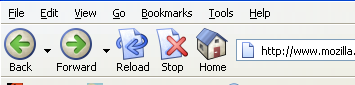
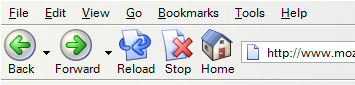
New theme update from Arvid, hoo dog.

diff --git a/toolkit/skin/win/printing.css b/toolkit/skin/win/printing.css
@@ -1,0 +1,108 @@
+/* ***** BEGIN LICENSE BLOCK *****
+ * Version: MPL 1.1/GPL 2.0/LGPL 2.1
+ *
+ * The contents of this file are subject to the Mozilla Public License Version
+ * 1.1 (the "License"); you may not use this file except in compliance with
+ * the License. You may obtain a copy of the License at
+ * http://www.mozilla.org/MPL/
+ *
+ * Software distributed under the License is distributed on an "AS IS" basis,
+ * WITHOUT WARRANTY OF ANY KIND, either express or implied. See the License
+ * for the specific language governing rights and limitations under the
+ * License.
+ *
+ * The Original Code is the Mozilla Print Preview Toolbar.
+ *
+ * The Initial Developer of the Original Code is
+ * Netscape Communications Corp.
+ * Portions created by the Initial Developer are Copyright (C) 2002
+ * the Initial Developer. All Rights Reserved.
+ *
+ * Contributor(s):
+ *   Samir Gehani  <sgehani@netscape.com>
+ *   Bill Law      <law@netscape.com>
+ *
+ * Alternatively, the contents of this file may be used under the terms of
+ * either the GNU General Public License Version 2 or later (the "GPL"), or
+ * the GNU Lesser General Public License Version 2.1 or later (the "LGPL"),
+ * in which case the provisions of the GPL or the LGPL are applicable instead
+ * of those above. If you wish to allow use of your version of this file only
+ * under the terms of either the GPL or the LGPL, and not to allow others to
+ * use your version of this file under the terms of the MPL, indicate your
+ * decision by deleting the provisions above and replace them with the notice
+ * and other provisions required by the GPL or the LGPL. If you do not delete
+ * the provisions above, a recipient may use your version of this file under
+ * the terms of any one of the MPL, the GPL or the LGPL.
+ *
+ * ***** END LICENSE BLOCK ***** */
+
+/* ::::: print preview toolbar ::::: */
+
+/* ..... page navigation ..... */
+
+.home-arrow {
+  list-style-image: url("chrome://global/skin/arrow/arrow-lft-sharp-end.gif");
+}
+
+.end-arrow {
+  list-style-image: url("chrome://global/skin/arrow/arrow-rit-sharp-end.gif");
+}
+
+.last-arrow {
+  list-style-image: url("chrome://global/skin/arrow/arrow-lft-sharp.gif");
+}
+
+.next-arrow {
+  list-style-image: url("chrome://global/skin/arrow/arrow-rit-sharp.gif");
+}
+
+/* ...... scale in/decrement ..... */
+
+.up-arrow {
+  list-style-image: url("chrome://global/skin/arrow/arrow-up-sharp.gif");
+}
+
+.down-arrow {
+  list-style-image: url("chrome://global/skin/arrow/arrow-dn-sharp.gif");
+}
+
+/* ..... orientation ..... */
+/*
+.toolbar-portrait-page {
+  list-style-image: url("chrome://communicator/skin/icons/Portrait-small.png");
+}
+
+.toolbar-landscape-page {
+  list-style-image: url("chrome://communicator/skin/icons/Landscape-small.png");
+}
+*/
+/* ::::: page setup dialog ::::: */
+/*
+.portrait-page {
+  list-style-image: url("chrome://communicator/skin/icons/Portrait.png");
+}
+
+.landscape-page {
+  list-style-image: url("chrome://communicator/skin/icons/Landscape.png");
+}
+*/
+
+/* ..... orientation ..... */
+
+.toolbar-portrait-page {
+  list-style-image: url("chrome://global/skin/icons/Portrait-small.png");
+}
+
+.toolbar-landscape-page {
+  list-style-image: url("chrome://global/skin/icons/Landscape-small.png");
+}
+
+/* ::::: page setup dialog ::::: */
+
+.portrait-page {
+  list-style-image: url("chrome://global/skin/icons/Portrait.png");
+}
+
+.landscape-page {
+  list-style-image: url("chrome://global/skin/icons/Landscape.png");
+}

diff --git a/toolkit/skin/win/toolbarbutton.css b/toolkit/skin/win/toolbarbutton.css
@@ -34,7 +34,7 @@ toolbarbutton {
   -moz-box-align: center;
   -moz-box-pack: center;
   margin: 0;
-  border: 1px outset transparent;
+  border: 1px solid transparent;
   padding: 3px;
   background-color: transparent;
   color: -moz-DialogText;
@@ -51,12 +51,12 @@ toolbarbutton {
 
 toolbarbutton:hover,
 toolbarbutton[buttonover="true"] {
-  border-color: ThreeDFace;
+  border-color: ThreeDHighlight ThreeDShadow ThreeDShadow ThreeDHighlight;
 }
 
 toolbarbutton:hover:active,
 toolbarbutton[open="true"] {
-  border-style: inset;
+  border-color: ThreeDShadow ThreeDHighlight ThreeDHighlight ThreeDShadow;
   padding: 4px 2px 2px 4px;
 }
 
@@ -72,8 +72,7 @@ toolbarbutton[disabled="true"][open="true"] {
 /* ..... checked state ..... */
 
 toolbarbutton[checked="true"] {
-  border-style: inset !important;
-  border-color: ThreeDFace !important;
+  border-color: ThreeDShadow ThreeDHighlight ThreeDHighlight ThreeDShadow !important;
   padding: 4px 2px 2px 4px !important;
   background-image: url("chrome://global/skin/toolbar/Lighten.png");
   color: ButtonText !important;
@@ -113,11 +112,6 @@ toolbarbutton[type="menu-button"][disabled="true"]:hover:active {
   -moz-box-orient: vertical;
 }
 
-.toolbarbutton-menubutton-button,
-.toolbarbutton-menubutton-dropmarker {
-  border: 1px outset transparent;
-}
-
 /* .......... dropmarker .......... */
 
 .toolbarbutton-menubutton-dropmarker {
@@ -127,7 +121,6 @@ toolbarbutton[type="menu-button"][disabled="true"]:hover:active {
 }
 
 .toolbarbutton-menubutton-dropmarker[disabled="true"] {
-  border: 1px solid transparent !important;
   padding: 0 0 1px 0 !important;
   list-style-image: url("chrome://global/skin/arrow/arrow-dn-dis.gif") !important;
 }

diff --git a/toolkit/skin/win/splitter.css b/toolkit/skin/win/splitter.css
@@ -33,7 +33,11 @@ splitter {
   -moz-box-align: center;
   -moz-box-pack: center;
   cursor: e-resize;
-  min-width: 5px;
+  border-width: 0 2px;
+  border-style: solid;
+  -moz-border-left-colors: ThreeDShadow ThreeDHighlight;
+  -moz-border-right-colors: ThreeDDarkShadow ThreeDFace;
+  min-width: 6px;
   background-color: ThreeDFace;
 }
 
@@ -41,10 +45,10 @@ splitter {
 
 splitter[orient="vertical"] {
   cursor: n-resize;
-  min-height: 8px;
-  border-width: 1px 0;
-  border-style: solid;
-  border-color: ThreeDShadow;
+  border-width: 2px 0;
+  -moz-border-top-colors: ThreeDShadow ThreeDHighlight;
+  -moz-border-bottom-colors: ThreeDDarkShadow ThreeDFace;
+  min-height: 6px;
 }
 
 /* ::::: splitter grippy ::::: */

diff --git a/toolkit/skin/win/toolbar.css b/toolkit/skin/win/toolbar.css
@@ -32,6 +32,9 @@
 toolbox {
   -moz-appearance: toolbox;
   background-color: -moz-Dialog;
+  border-left: 1px solid ThreeDShadow;
+  border-top: 1px solid ThreeDShadow;
+  border-right: 1px solid ThreeDHighlight;
 }
 
 /* ::::: toolbar & menubar ::::: */
@@ -49,7 +52,8 @@ menubar {
 /* ::::: toolbar decorations ::::: */
 
 toolbarseparator {
-  margin : 2px 0.2em 0 0.2em;
+  margin : 2px 0.2em;
+  border-right : 1px solid ThreeDHighlight;
   border-left : 1px solid ThreeDShadow;
   width : 2px;
 }

diff --git a/toolkit/skin/win/popup.css b/toolkit/skin/win/popup.css
@@ -31,8 +31,12 @@
 
 menupopup,
 popup {
-  border: 1px solid ThreeDShadow;
-  padding: 2px;
+  border: 2px solid;
+  -moz-border-top-colors: ThreeDLightShadow ThreeDHighlight;
+  -moz-border-right-colors: ThreeDDarkShadow ThreeDShadow;
+  -moz-border-bottom-colors: ThreeDDarkShadow ThreeDShadow;
+  -moz-border-left-colors: ThreeDLightShadow ThreeDHighlight;
+  padding: 1px;
   min-width: 1px;
   background-color: Menu;
 }

diff --git a/toolkit/skin/win/global.css b/toolkit/skin/win/global.css
@@ -144,7 +144,6 @@ sidebarheader {
   height: 25px;
   background-color: -moz-Dialog;
   -moz-appearance: toolbox;
-  border-right: 1px solid ThreeDShadow;
   border-bottom: 1px solid ThreeDShadow;
   border-top: 1px solid ThreeDHighlight;
 }

diff --git a/toolkit/skin/win/browser.css b/toolkit/skin/win/browser.css
@@ -3,6 +3,7 @@
 
 .tabbrowser-strip {
   border-bottom: 1px solid ThreeDShadow;
+  padding-bottom: 1px;
 }
 
 tabpanels {
